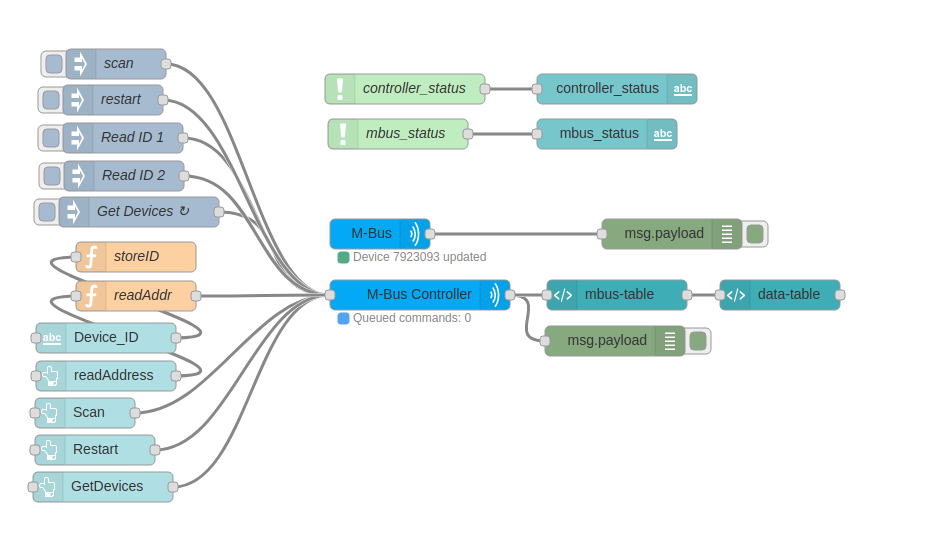
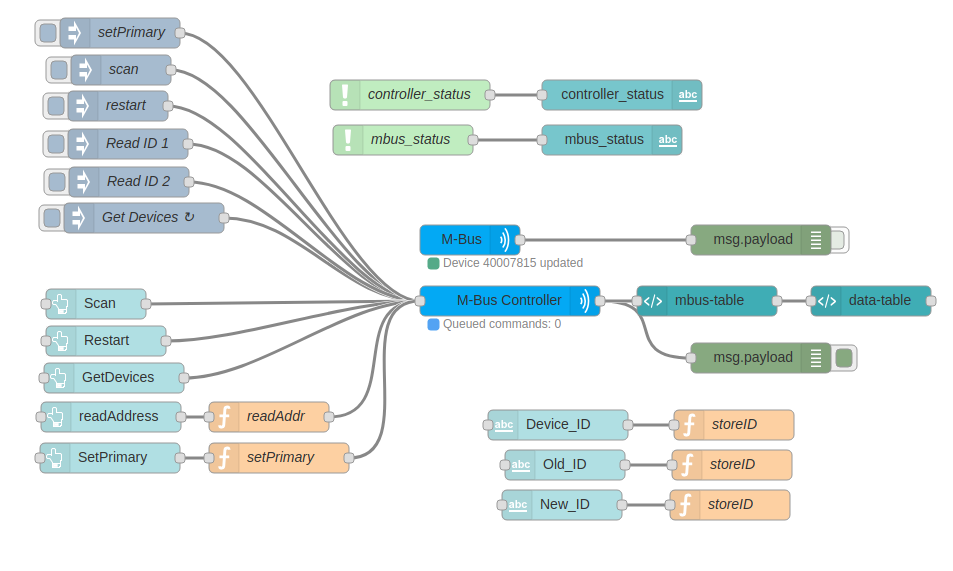
Updated node-mbus to last version. Implemented setPrimary Updated Readme and ready for 1.0.0

diff --git a/mbus-client.js b/mbus-client.js
@@ -8,6 +8,7 @@ module.exports = function (RED) {
     'mbConnect': 'log',
     'mbReconnect': 'debug',
     'mbScan': 'debug',
+    'mbPrimarySet': 'debug',
     'mbScanComplete': 'debug',
     'mbDeviceUpdated': 'debug',
     'mbDevicesLoaded': 'debug',
@@ -92,8 +93,6 @@ module.exports = function (RED) {
 
         if(isValidArray(data)){
           emitEvent('mbDevicesLoaded', {data:data});
-          devices = data;
-          delayFunction(readDevices);
         }else if(scanIfFail){
           delayFunction(scanSecondary);
         }
@@ -111,6 +110,10 @@ module.exports = function (RED) {
       id = id.substr(0,8);
       id = parseInt(id); //remove leading 0
       return id.toString();
+    }
+
+    function isSecondaryID(id){
+      return id.toString().length == 16;
     }
 
     //Delay a function
@@ -216,6 +219,14 @@ module.exports = function (RED) {
 
     function isConnected(){
       return client && client.connect();
+    }
+
+    function initDevices(){
+      if(devices){
+        for (var i = 0; i < devices.length; i++) {
+          addEmptyDevice(devices[i]);
+        }
+      }
     }
 
     //connect the client
@@ -325,12 +336,36 @@ module.exports = function (RED) {
           emitEvent('mbError', {data: err.message, message: 'Error while reading device ' + addr + ': ' + err.message});
 
         }else{ //successfull read
-          data.secondaryID = addr;
+          isSecondaryID(addr) ? data.secondaryID = addr : data.primaryID = addr;
           emitEvent('mbDeviceUpdated', {data:data});
         }
       });
 
     }
+
+    //get device addr data
+    function setPrimary(oldAddr, newAddr, cb){
+
+      if(!canDoOperation()){
+        if(cb) cb(new Error('Connection not open'), null)
+        emitEvent('mbError', {data: 'Connection not open', message: 'Error while setting primary address '+ newAddr +' to ' + oldAddr + ': ' + 'Connection not open'});
+        return;
+      }
+
+      client.setPrimaryId(oldAddr, newAddr, function(err){
+
+        if(cb) cb(err);
+
+        if (err) {
+          emitEvent('mbError', {data: err.message, message: 'Error while setting primary address '+ newAddr +' to ' + oldAddr + ': ' + err.message});
+
+        }else{ //successfull read
+          emitEvent('mbPrimarySet', {data: {old: oldAddr, new:newAddr}});
+        }
+      });
+
+    }
+
 
     //scan secondary IDs
     function scanSecondary(cb){
@@ -394,12 +429,17 @@ module.exports = function (RED) {
         var message = "Executing command: ";
 
         switch (fnName) {
+          case 'setPrimary':
+          message += 'setPrimary Old=' + (op.args ? op.args[0] : 'null') + " New=" + (op.args ? op.args[1] : 'null');
+          break;
           case 'getData':
           message += 'getDevice ID=' + (op.args ? op.args[0] : 'null');
           break;
           case 'scanSecondary':
           message += 'scan'
           break;
+          default:
+          message += "Undefined"
         }
 
         emitEvent('mbCommandExec', {data: message, message: message});
@@ -431,6 +471,7 @@ module.exports = function (RED) {
 
     node.on('mbScanComplete', function(data){
       devices = data;
+      initDevices();
 
       if(node.storeDevices)
         storeDevices();
@@ -438,12 +479,42 @@ module.exports = function (RED) {
       readDevices();
     });
 
+    node.on('mbDevicesLoaded', function(data){
+      devices = data;
+      initDevices();
+      delayFunction(readDevices);
+    });
+
     node.on('mbDeviceUpdated', function(data){
-      var id = data ? data.secondaryID : null;
-      if(id){
-        devicesData[id] = data;
+      if(!data || closed || reconnecting) return;
+
+      var id;
+
+      if(data.secondaryID){
+        id = data.secondaryID;
+        devicesData[id].SlaveInformation = data.SlaveInformation;
+        devicesData[id].DataRecord = data.DataRecord;
         devicesData[id].lastUpdate = new Date();
         devicesData[id].error = 'Ok';
+      }else if(data.primaryID){ //getData has been called with a primary ID
+        //check if device is present
+        var device = null;
+        id= data.primaryID;
+
+        //look for the device
+        for (var d in devicesData) {
+          if(devicesData[d].SlaveInformation.Id == data.SlaveInformation.Id){
+            device = d;
+            break;
+          }
+        }
+
+        if(device){
+          devicesData[device].SlaveInformation = data.SlaveInformation;
+          devicesData[device].DataRecord = data.DataRecord;
+          devicesData[device].primaryID = id;
+        }
+
       }
     });
 

diff --git a/mbus-controller.js b/mbus-controller.js
@@ -70,13 +70,6 @@ module.exports = function (RED) {
               return;
             }
 
-            msg.payload.address = parseInt(msg.payload.address) || 0
-
-            if (!(Number.isInteger(msg.payload.address))) {
-              node.error('Address Not Valid', msg)
-              return
-            }
-
             commandsQueue.push({fn: 'getData', id: msg.payload.address});
             showQueue();
 
@@ -90,6 +83,40 @@ module.exports = function (RED) {
               else{
                 node.send({topic: 'getDevice', payload: data});
                 client.emit('mbCommandDone', 'Device updated ID ' + (cmd ? cmd.id : ''));
+              }
+
+              if(client)
+                client.doNextOperation();
+            }]);
+
+            break;
+            case 'setPrimary':
+
+            if(!msg.payload && (!msg.payload.oldAddr || !msg.payload.newAddr)){
+              node.error('Missing data, set a valid "oldAddr" and "newAddr"', msg)
+              return;
+            }
+
+            msg.payload.newAddr = parseInt(msg.payload.newAddr);
+
+            if (!(Number.isInteger(msg.payload.newAddr)) || msg.payload.newAddr < 0 || msg.payload.newAddr > 250) {
+              node.error('New primary address not valid, must be an integer between 1-250', msg)
+              return
+            }
+
+            commandsQueue.push({fn: 'setPrimary', new: msg.payload.newAddr, old: msg.payload.oldAddr});
+            showQueue();
+
+            client.queueOperation('setPrimary', [msg.payload.oldAddr, msg.payload.newAddr, function(err){
+
+              var cmd = commandsQueue.shift();
+
+              if(err){
+                setStatus('Error while setting new primary ID ' + cmd.new + ' of device ' + (cmd ? cmd.old : ''), 'error');
+              }
+              else{
+                node.send({topic: 'setPrimary', payload: {newAddr:cmd.new, oldAddr:cmd.old}});
+                client.emit('mbCommandDone', 'Setted new primary ID ' + cmd.new + ' to device ' + cmd.old);
               }
 
               if(client)

diff --git a/mbus-controller.html b/mbus-controller.html
@@ -69,7 +69,12 @@
 <ul>
     <li><b>scan</b> - Used to trigger a new scan of M-Bus network (will update <code>mbus_devices.json</code> file if <code>storeDevices</code> option is set to true)
     <li><b>getDevices</b> - Used to get the Object with devices all datas and errors.
-    <li><b>getDevice</b> - Read a specific device ID specified in <code>msg.payload</code>.
+    <li><b>getDevice</b> - Read a specific device ID specified in <code>msg.payload.address</code>.
+    <li><b>setPrimary</b> - Set device Primary ID. <code>msg.payload</code> needs <code>oldAddr</code> and <code>newAddr</code> properties: 
+    <code>`{newAddr: 'theNewAddr', oldAddr: 'theOldAddress'}`</code>.
+    <code>oldAddr</code> can be the primary or the secondary ID of the device.
+    <code>newAddr</code> must be a valid primary ID <code>Int</code> between 0-250.
+
 </ul>
 
 <h3>Outputs</h3>

diff --git a/mbus-out.js b/mbus-out.js
@@ -21,7 +21,9 @@ module.exports = function (RED) {
      'mbScan': onScan,
      'mbScanComplete': onScanComplete,
      'mbDeviceUpdated': onDeviceUpdated,
-     'mbDevicesLoaded': onDevicesLoaded
+     'mbDevicesLoaded': onDevicesLoaded,
+     'mbPrimarySet': onPrimarySet,
+
    };
 
 
@@ -49,6 +51,11 @@ module.exports = function (RED) {
     function onDeviceUpdated(device) {
       setStatus("Device " + device.SlaveInformation.Id + " updated", 'success')
       node.send({topic: "mbDeviceUpdated", payload: device});
+    }
+
+    function onPrimarySet(data) {
+      setStatus("Device " + data.old + " successfully set to primary ID " + data.new, 'success')
+      node.send({topic: "mbPrimarySet", payload: data});
     }
 
     function onDevicesLoaded(devices) {

diff --git a/README.md b/README.md
@@ -139,6 +139,7 @@ Other **mbus-client** events are:
 * *mbError*: when an error occurs (with error message as argument)
 * *mbRestarted*: when the client is restarted
 * *mbScan*: when the scan starts
+* *mbPrimarySet*: when a device has successfully set a new primary ID
 
 
 ### mbus-out
@@ -154,6 +155,7 @@ This node is used to send commands to an M-Bus client. `msg.topic` must contains
   * **devices**: `Object` where keys are devices secondary IDs and values are devices data.
   * **errors**: `Object` where keys are devices secondary IDs and values are `true` if devices has an error
 * *getDevice*: Input `msg.payload.address` must contain the address (primary or secondary) of the device to read. Output will contain requested device datas.
+* *setPrimary*: Input: `msg.payload.oldAddr` (primary or secondary ID of the device) and `msg.payload.newAddr`  (the new primary ID to set 0-250). Output will contain the same payload as input if success: `{newAddr: msg.payload.newAddr, oldAddr:msg.payload.oldAddr}`.
 * *restart*: Restarts the client connection.
 
 **IMPORTANT NOTE**
@@ -177,7 +179,7 @@ Click on a m-bus device row and his data will be displayed in the Data table. De
 ### Flow data
 
 ```json
-[{"id":"91f58b94.449f68","type":"tab","label":"M-Bus","disabled":false,"info":""},{"id":"dd877b81.954e48","type":"mbus-out","z":"91f58b94.449f68","name":"","client":"ae5a755.a1da088","x":386,"y":242,"wires":[["3baf7067.f14cb"]]},{"id":"3baf7067.f14cb","type":"debug","z":"91f58b94.449f68","name":"","active":true,"tosidebar":true,"console":false,"tostatus":false,"complete":"false","x":677,"y":242,"wires":[]},{"id":"c052251a.5894f8","type":"mbus-controller","z":"91f58b94.449f68","name":"","client":"ae5a755.a1da088","x":426,"y":303,"wires":[["b83f6e57.3e9b3","4628e1e6.86c15"]]},{"id":"6783da7a.66a964","type":"inject","z":"91f58b94.449f68","name":"scan","topic":"scan","payload":"","payloadType":"str","repeat":"","crontab":"","once":false,"onceDelay":0.1,"x":122,"y":72,"wires":[["c052251a.5894f8"]]},{"id":"b83f6e57.3e9b3","type":"debug","z":"91f58b94.449f68","name":"","active":true,"tosidebar":true,"console":false,"tostatus":false,"complete":"false","x":621,"y":349,"wires":[]},{"id":"36145d27.8fa442","type":"inject","z":"91f58b94.449f68","name":"Read ID 1","topic":"getDevice","payload":"{\"address\": 1}","payloadType":"json","repeat":"","crontab":"","once":false,"onceDelay":0.1,"x":129,"y":146,"wires":[["c052251a.5894f8"]]},{"id":"161119a5.ed03b6","type":"inject","z":"91f58b94.449f68","name":"Get Devices","topic":"getDevices","payload":"","payloadType":"str","repeat":"10","crontab":"","once":true,"onceDelay":0.1,"x":145,"y":220,"wires":[["c052251a.5894f8"]]},{"id":"4628e1e6.86c15","type":"ui_template","z":"91f58b94.449f68","group":"33ef59b3.4b5596","name":"mbus-table","order":0,"width":"14","height":"10","format":"<table>\n  <tr>\n    <th>ID</th>\n    <th>Info</th>\n    <th>Data</th>\n    <th>Last Update</th>\n    <th>Status</th>\n  </tr>\n  <tr style=\"cursor:pointer;\" ng-click=\"showData(device)\" ng-repeat=\"(id, device) in devices\">\n    <td>{{ device.SlaveInformation.Id }}</td>\n    <td ng-bind-html=\"getInfo(device)\"></td>\n    <td>{{ device.DataRecord.length }}</td>\n    <td>{{ device.lastUpdate }}</td>\n    <td>\n        <div class=\"online\" ng-style=\"{background: isOnline(id) ? '#4CAF50' : '#f44336'}\">\n            <md-tooltip md-direction=\"bottom\">{{ device.error }}</md-tooltip>\n        </div>\n    </td>\n  </tr>\n</table>\n\n<style>\ntable {\n    border-collapse: collapse;\n    width: 100%;\n}\n\nth, td{\n    text-align: left;\n    padding: 8px;\n    background-color: #f2f2f2;\n    color: black;\n}\n\nth {\n    background-color: #4CAF50;\n    color: white;\n}\n\n.online {\n\tbackground:#ff3333;\n\twidth:20px;\n\theight:20px;\n\tmargin:0 auto;\n\t-webkit-border-radius:50%;\n\t-moz-border-radius:50%;\n\tborder-radius:50%;\n}\n</style>\n\n<script>\n\n\n(function(scope) {\n    \n    scope.send({topic: 'getDevices'});\n    scope.devices = [];\n    scope.errors = [];\n    \n    scope.isOnline = function(ID){\n        return !(scope.errors[ID] === true);\n    }\n    \n    scope.showData = function(device){\n        scope.send({topic: 'deviceData', payload: device});\n    }\n    \n    scope.getInfo = function(device){\n        var text = '';\n        var info = device.SlaveInformation;\n        \n        for(key in info){\n            text += `<p><b>${key}</b>: ${info[key]}</p>`;\n        }\n        \n        return text;\n    }\n\n    scope.$watch('msg', function(data) {\n        if(data && data.topic){\n            switch(data.topic){\n                case \"getDevices\":\n                    if(data.payload && data.payload.devices)\n                        scope.devices = data.payload.devices;\n                        \n                    if(data.payload && data.payload.errors)\n                        scope.errors = data.payload.errors;\n                        \n                break;\n            }\n        }\n    });\n    \n})(scope);\n\n</script>\n","storeOutMessages":false,"fwdInMessages":false,"templateScope":"local","x":623,"y":303,"wires":[["daf4f19d.2953f"]]},{"id":"1bbe4b3c.e76775","type":"inject","z":"91f58b94.449f68","name":"restart","topic":"restart","payload":"","payloadType":"num","repeat":"","crontab":"","once":false,"onceDelay":0.1,"x":119,"y":108,"wires":[["c052251a.5894f8"]]},{"id":"daf4f19d.2953f","type":"ui_template","z":"91f58b94.449f68","group":"f84bb8e1.c42128","name":"data-table","order":0,"width":"14","height":"10","format":"<p><b>Device ID:</b> {{ID}} </p>\n\n<br>\n<br>\n\n<table>\n  <tr>\n    <th>ID</th>\n    <th>Function</th>\n    <th>Unit</th>\n    <th>Value</th>\n    <th>Timestamp</th>\n  </tr>\n  <tr ng-repeat=\"(key, data) in deviceData\">\n    <td>{{ data.id }}</td>\n    <td>{{ data.Function }}</td>\n    <td>{{ data.Unit }}</td>\n    <td>{{ data.Value }}</td>\n    <td>{{ data.Timestamp }}</td>\n  </tr>\n</table>\n\n<style>\ntable {\n    border-collapse: collapse;\n    width: 100%;\n}\n\nth, td{\n    text-align: left;\n    padding: 8px;\n    background-color: #f2f2f2;\n    color: black;\n}\n\nth {\n    background-color: #4CAF50;\n    color: white;\n}\n\n.online {\n\tbackground:#ff3333;\n\twidth:20px;\n\theight:20px;\n\tmargin:0 auto;\n\t-webkit-border-radius:50%;\n\t-moz-border-radius:50%;\n\tborder-radius:50%;\n}\n</style>\n\n<script>\n\n\n(function(scope) {\n    \n    scope.deviceData = [];\n    scope.ID = '';\n\n    scope.$watch('msg', function(data) {\n        if(data && data.topic){\n            switch(data.topic){\n                case \"deviceData\":\n                    if(data.payload){\n                        scope.deviceData = data.payload.DataRecord;\n                        scope.ID = data.payload.SlaveInformation.Id;\n                    }\n                break;\n            }\n        }\n    });\n    \n})(scope);\n\n</script>\n","storeOutMessages":false,"fwdInMessages":false,"templateScope":"local","x":786,"y":303,"wires":[[]]},{"id":"54eb2609.265918","type":"inject","z":"91f58b94.449f68","name":"Read ID 2","topic":"getDevice","payload":"{\"address\": 2}","payloadType":"json","repeat":"","crontab":"","once":false,"onceDelay":0.1,"x":130,"y":184,"wires":[["c052251a.5894f8"]]},{"id":"9a73efcf.a7232","type":"ui_button","z":"91f58b94.449f68","name":"Scan","group":"c89330ce.f7db","order":3,"width":"2","height":"1","passthru":false,"label":"Scan","color":"","bgcolor":"","icon":"location_searching","payload":"","payloadType":"str","topic":"scan","x":91,"y":421,"wires":[["c052251a.5894f8"]]},{"id":"97ffd355.b9e33","type":"ui_button","z":"91f58b94.449f68","name":"Restart","group":"c89330ce.f7db","order":4,"width":"3","height":"1","passthru":false,"label":"Restart","color":"","bgcolor":"","icon":"refresh","payload":"","payloadType":"str","topic":"restart","x":101,"y":458,"wires":[["c052251a.5894f8"]]},{"id":"15e49644.8e13ba","type":"ui_button","z":"91f58b94.449f68","name":"GetDevices","group":"c89330ce.f7db","order":5,"width":"3","height":"1","passthru":false,"label":"Update Devices","color":"","bgcolor":"","icon":"refresh","payload":"","payloadType":"str","topic":"getDevices","x":109,"y":495,"wires":[["c052251a.5894f8"]]},{"id":"d022c2f6.908e5","type":"ui_button","z":"91f58b94.449f68","name":"readAddress","group":"c89330ce.f7db","order":2,"width":"3","height":"1","passthru":false,"label":"Read Device","color":"","bgcolor":"","icon":"","payload":"deviceID","payloadType":"flow","topic":"getDevice","x":112,"y":384,"wires":[["10d02659.573e3a"]]},{"id":"c4931876.835258","type":"ui_text_input","z":"91f58b94.449f68","name":"Device_ID","label":"ID: ","group":"c89330ce.f7db","order":1,"width":"3","height":"1","passthru":true,"mode":"text","delay":300,"topic":"","x":112,"y":346,"wires":[["548897df.015fb8"]]},{"id":"548897df.015fb8","type":"function","z":"91f58b94.449f68","name":"storeID","func":"\nflow.set('deviceID', parseInt(msg.payload));\n\nreturn msg;","outputs":0,"noerr":0,"x":142,"y":265,"wires":[]},{"id":"10d02659.573e3a","type":"function","z":"91f58b94.449f68","name":"readAddr","func":"var addr = {address: msg.payload}\n\nmsg.payload = addr;\n\nreturn msg;","outputs":1,"noerr":0,"x":142,"y":304,"wires":[["c052251a.5894f8"]]},{"id":"ae06bcd6.ce3df","type":"status","z":"91f58b94.449f68","name":"controller_status","scope":["c052251a.5894f8"],"x":411,"y":97,"wires":[["1b23d795.c83a58"]]},{"id":"eb9c6a53.906ae8","type":"status","z":"91f58b94.449f68","name":"mbus_status","scope":["dd877b81.954e48"],"x":404,"y":142,"wires":[["ebc6bd18.72c2e"]]},{"id":"1b23d795.c83a58","type":"ui_text","z":"91f58b94.449f68","group":"b6df82c1.2728a","order":0,"width":0,"height":0,"name":"controller_status","label":"Controller","format":"{{msg.status.text}}","layout":"row-spread","x":623,"y":97,"wires":[]},{"id":"ebc6bd18.72c2e","type":"ui_text","z":"91f58b94.449f68","group":"b6df82c1.2728a","order":0,"width":0,"height":0,"name":"mbus_status","label":"M-Bus","format":"{{msg.status.text}}","layout":"row-spread","x":613,"y":142,"wires":[]},{"id":"ae5a755.a1da088","type":"mbus-client","z":"","name":"test","clienttype":"serial","tcpHost":"127.0.0.1","tcpPort":"500","serialPort":"/dev/ttyUSB0","serialBaudrate":"2400","reconnectTimeout":"5000","storeDevices":true,"disableLogs":false},{"id":"33ef59b3.4b5596","type":"ui_group","z":"","name":"M-Bus Devices","tab":"1e8e0541.4fc61b","order":4,"disp":true,"width":"14","collapse":false},{"id":"f84bb8e1.c42128","type":"ui_group","z":"","name":"Data","tab":"1e8e0541.4fc61b","order":3,"disp":true,"width":"14","collapse":false},{"id":"c89330ce.f7db","type":"ui_group","z":"","name":"Commands","tab":"1e8e0541.4fc61b","order":2,"disp":true,"width":"14","collapse":false},{"id":"b6df82c1.2728a","type":"ui_group","z":"","name":"Status","tab":"1e8e0541.4fc61b","order":1,"disp":true,"width":"14","collapse":false},{"id":"1e8e0541.4fc61b","type":"ui_tab","z":"","name":"M-Bus","icon":"plug","order":1}]
+[{"id":"91f58b94.449f68","type":"tab","label":"M-Bus","disabled":false,"info":""},{"id":"dd877b81.954e48","type":"mbus-out","z":"91f58b94.449f68","name":"","client":"ae5a755.a1da088","x":471,"y":242,"wires":[["3baf7067.f14cb"]]},{"id":"3baf7067.f14cb","type":"debug","z":"91f58b94.449f68","name":"","active":false,"tosidebar":true,"console":false,"tostatus":false,"complete":"false","x":762,"y":242,"wires":[]},{"id":"c052251a.5894f8","type":"mbus-controller","z":"91f58b94.449f68","name":"","client":"ae5a755.a1da088","x":511,"y":303,"wires":[["b83f6e57.3e9b3","4628e1e6.86c15"]]},{"id":"6783da7a.66a964","type":"inject","z":"91f58b94.449f68","name":"scan","topic":"scan","payload":"","payloadType":"str","repeat":"","crontab":"","once":false,"onceDelay":0.1,"x":122,"y":72,"wires":[["c052251a.5894f8"]]},{"id":"b83f6e57.3e9b3","type":"debug","z":"91f58b94.449f68","name":"","active":true,"tosidebar":true,"console":false,"tostatus":false,"complete":"false","x":762,"y":360,"wires":[]},{"id":"36145d27.8fa442","type":"inject","z":"91f58b94.449f68","name":"Read ID 1","topic":"getDevice","payload":"{\"address\": 1}","payloadType":"json","repeat":"","crontab":"","once":false,"onceDelay":0.1,"x":129,"y":146,"wires":[["c052251a.5894f8"]]},{"id":"161119a5.ed03b6","type":"inject","z":"91f58b94.449f68","name":"Get Devices","topic":"getDevices","payload":"","payloadType":"str","repeat":"10","crontab":"","once":true,"onceDelay":0.1,"x":145,"y":220,"wires":[["c052251a.5894f8"]]},{"id":"4628e1e6.86c15","type":"ui_template","z":"91f58b94.449f68","group":"33ef59b3.4b5596","name":"mbus-table","order":0,"width":"14","height":"10","format":"<table>\n  <tr>\n    <th>ID</th>\n    <th>Primary ID</th>\n    <th>Info</th>\n    <th>Data</th>\n    <th>Last Update</th>\n    <th>Status</th>\n  </tr>\n  <tr style=\"cursor:pointer;\" ng-click=\"showData(device)\" ng-repeat=\"(id, device) in devices\">\n    <td>{{ device.SlaveInformation.Id }}</td>\n    <td>{{ device.primaryID }}</td>\n    <td ng-bind-html=\"getInfo(device)\"></td>\n    <td>{{ device.DataRecord.length }}</td>\n    <td>{{ device.lastUpdate }}</td>\n    <td>\n        <div class=\"online\" ng-style=\"{background: isOnline(id) ? '#4CAF50' : '#f44336'}\">\n            <md-tooltip md-direction=\"bottom\">{{ device.error ? device.error : 'Not updated yet' }}</md-tooltip>\n        </div>\n    </td>\n  </tr>\n</table>\n\n<style>\ntable {\n    border-collapse: collapse;\n    width: 100%;\n}\n\nth, td{\n    text-align: left;\n    padding: 8px;\n    background-color: #f2f2f2;\n    color: black;\n}\n\nth {\n    background-color: #4CAF50;\n    color: white;\n}\n\n.online {\n\tbackground:#ff3333;\n\twidth:20px;\n\theight:20px;\n\tmargin:0 auto;\n\t-webkit-border-radius:50%;\n\t-moz-border-radius:50%;\n\tborder-radius:50%;\n}\n</style>\n\n<script>\n\n\n(function(scope) {\n    \n    scope.send({topic: 'getDevices'});\n    scope.devices = [];\n    scope.errors = [];\n    \n    scope.isOnline = function(ID){\n        return !(scope.errors[ID] === true);\n    }\n    \n    scope.showData = function(device){\n        scope.send({topic: 'deviceData', payload: device});\n    }\n    \n    scope.getInfo = function(device){\n        var text = '';\n        var info = device.SlaveInformation;\n        \n        for(key in info){\n            text += `<p><b>${key}</b>: ${info[key]}</p>`;\n        }\n        \n        return text;\n    }\n\n    scope.$watch('msg', function(data) {\n        if(data && data.topic){\n            switch(data.topic){\n                case \"getDevices\":\n                    if(data.payload && data.payload.devices)\n                        scope.devices = data.payload.devices;\n                        \n                    if(data.payload && data.payload.errors)\n                        scope.errors = data.payload.errors;\n                        \n                break;\n            }\n        }\n    });\n    \n})(scope);\n\n</script>\n","storeOutMessages":false,"fwdInMessages":false,"templateScope":"local","x":708,"y":303,"wires":[["daf4f19d.2953f"]]},{"id":"1bbe4b3c.e76775","type":"inject","z":"91f58b94.449f68","name":"restart","topic":"restart","payload":"","payloadType":"num","repeat":"","crontab":"","once":false,"onceDelay":0.1,"x":119,"y":108,"wires":[["c052251a.5894f8"]]},{"id":"daf4f19d.2953f","type":"ui_template","z":"91f58b94.449f68","group":"f84bb8e1.c42128","name":"data-table","order":0,"width":"14","height":"10","format":"<p><b>Device ID:</b> {{ID}} </p>\n\n<br>\n<br>\n\n<table>\n  <tr>\n    <th>ID</th>\n    <th>Function</th>\n    <th>Unit</th>\n    <th>Value</th>\n    <th>Timestamp</th>\n  </tr>\n  <tr ng-repeat=\"(key, data) in deviceData\">\n    <td>{{ data.id }}</td>\n    <td>{{ data.Function }}</td>\n    <td>{{ data.Unit }}</td>\n    <td>{{ data.Value }}</td>\n    <td>{{ data.Timestamp }}</td>\n  </tr>\n</table>\n\n<style>\ntable {\n    border-collapse: collapse;\n    width: 100%;\n}\n\nth, td{\n    text-align: left;\n    padding: 8px;\n    background-color: #f2f2f2;\n    color: black;\n}\n\nth {\n    background-color: #4CAF50;\n    color: white;\n}\n\n.online {\n\tbackground:#ff3333;\n\twidth:20px;\n\theight:20px;\n\tmargin:0 auto;\n\t-webkit-border-radius:50%;\n\t-moz-border-radius:50%;\n\tborder-radius:50%;\n}\n</style>\n\n<script>\n\n\n(function(scope) {\n    \n    scope.deviceData = [];\n    scope.ID = '';\n\n    scope.$watch('msg', function(data) {\n        if(data && data.topic){\n            switch(data.topic){\n                case \"deviceData\":\n                    if(data.payload){\n                        scope.deviceData = data.payload.DataRecord;\n                        scope.ID = data.payload.SlaveInformation.Id;\n                    }\n                break;\n            }\n        }\n    });\n    \n})(scope);\n\n</script>\n","storeOutMessages":false,"fwdInMessages":false,"templateScope":"local","x":872,"y":303,"wires":[[]]},{"id":"54eb2609.265918","type":"inject","z":"91f58b94.449f68","name":"Read ID 2","topic":"getDevice","payload":"{\"address\": 2}","payloadType":"json","repeat":"","crontab":"","once":false,"onceDelay":0.1,"x":130,"y":184,"wires":[["c052251a.5894f8"]]},{"id":"9a73efcf.a7232","type":"ui_button","z":"91f58b94.449f68","name":"Scan","group":"c89330ce.f7db","order":3,"width":"2","height":"1","passthru":false,"label":"Scan","color":"","bgcolor":"","icon":"location_searching","payload":"","payloadType":"str","topic":"scan","x":97,"y":306,"wires":[["c052251a.5894f8"]]},{"id":"97ffd355.b9e33","type":"ui_button","z":"91f58b94.449f68","name":"Restart","group":"c89330ce.f7db","order":4,"width":"3","height":"1","passthru":false,"label":"Restart","color":"","bgcolor":"","icon":"refresh","payload":"","payloadType":"str","topic":"restart","x":107,"y":343,"wires":[["c052251a.5894f8"]]},{"id":"15e49644.8e13ba","type":"ui_button","z":"91f58b94.449f68","name":"GetDevices","group":"c89330ce.f7db","order":5,"width":"3","height":"1","passthru":false,"label":"Update Devices","color":"","bgcolor":"","icon":"refresh","payload":"","payloadType":"str","topic":"getDevices","x":115,"y":380,"wires":[["c052251a.5894f8"]]},{"id":"d022c2f6.908e5","type":"ui_button","z":"91f58b94.449f68","name":"readAddress","group":"c89330ce.f7db","order":2,"width":"3","height":"1","passthru":false,"label":"Read Device","color":"","bgcolor":"","icon":"","payload":"deviceID","payloadType":"flow","topic":"getDevice","x":112,"y":419,"wires":[["10d02659.573e3a"]]},{"id":"c4931876.835258","type":"ui_text_input","z":"91f58b94.449f68","name":"Device_ID","label":"ID: ","group":"c89330ce.f7db","order":1,"width":"3","height":"1","passthru":true,"mode":"text","delay":300,"topic":"","x":559,"y":427,"wires":[["548897df.015fb8"]]},{"id":"548897df.015fb8","type":"function","z":"91f58b94.449f68","name":"storeID","func":"\nflow.set('deviceID', parseInt(msg.payload));\n\nreturn msg;","outputs":0,"noerr":0,"x":735,"y":427,"wires":[]},{"id":"10d02659.573e3a","type":"function","z":"91f58b94.449f68","name":"readAddr","func":"var data = {address: msg.payload}\n\nmsg.payload = data;\n\nreturn msg;","outputs":1,"noerr":0,"x":270,"y":419,"wires":[["c052251a.5894f8"]]},{"id":"ae06bcd6.ce3df","type":"status","z":"91f58b94.449f68","name":"controller_status","scope":["c052251a.5894f8"],"x":411,"y":97,"wires":[["1b23d795.c83a58"]]},{"id":"eb9c6a53.906ae8","type":"status","z":"91f58b94.449f68","name":"mbus_status","scope":["dd877b81.954e48"],"x":404,"y":142,"wires":[["ebc6bd18.72c2e"]]},{"id":"1b23d795.c83a58","type":"ui_text","z":"91f58b94.449f68","group":"b6df82c1.2728a","order":0,"width":0,"height":0,"name":"controller_status","label":"Controller","format":"{{msg.status.text}}","layout":"row-spread","x":623,"y":97,"wires":[]},{"id":"ebc6bd18.72c2e","type":"ui_text","z":"91f58b94.449f68","group":"b6df82c1.2728a","order":0,"width":0,"height":0,"name":"mbus_status","label":"M-Bus","format":"{{msg.status.text}}","layout":"row-spread","x":613,"y":142,"wires":[]},{"id":"72550207.0eb80c","type":"inject","z":"91f58b94.449f68","name":"setPrimary","topic":"setPrimary","payload":"{\"newAddr\":3,\"oldAddr\":2}","payloadType":"json","repeat":"","crontab":"","once":false,"onceDelay":0.1,"x":121,"y":35,"wires":[["c052251a.5894f8"]]},{"id":"38b8c9fb.0362e6","type":"ui_text_input","z":"91f58b94.449f68","name":"Old_ID","label":"Old ID","group":"c89330ce.f7db","order":6,"width":"3","height":"1","passthru":true,"mode":"text","delay":300,"topic":"","x":566,"y":467,"wires":[["dc799523.083eb8"]]},{"id":"dc799523.083eb8","type":"function","z":"91f58b94.449f68","name":"storeID","func":"\nflow.set('oldID', parseInt(msg.payload));\n\nreturn msg;","outputs":0,"noerr":0,"x":733,"y":467,"wires":[]},{"id":"9421e413.1acb58","type":"ui_text_input","z":"91f58b94.449f68","name":"New_ID","label":"New ID","group":"c89330ce.f7db","order":7,"width":"3","height":"1","passthru":true,"mode":"text","delay":300,"topic":"","x":563,"y":507,"wires":[["cff49c1f.a8dc6"]]},{"id":"cff49c1f.a8dc6","type":"function","z":"91f58b94.449f68","name":"storeID","func":"\nflow.set('newID', parseInt(msg.payload));\n\nreturn msg;","outputs":0,"noerr":0,"x":731,"y":507,"wires":[]},{"id":"22376168.81726e","type":"ui_button","z":"91f58b94.449f68","name":"SetPrimary","group":"c89330ce.f7db","order":8,"width":"3","height":"1","passthru":false,"label":"Set Primary ID","color":"","bgcolor":"","icon":"","payload":"","payloadType":"str","topic":"setPrimary","x":111,"y":460,"wires":[["1ebe108.19438f"]]},{"id":"1ebe108.19438f","type":"function","z":"91f58b94.449f68","name":"setPrimary","func":"var data = {\n    oldAddr: flow.get('oldID'), \n    newAddr:flow.get('newID')\n    }\n\nmsg.payload = data;\n\nreturn msg;","outputs":1,"noerr":0,"x":280,"y":460,"wires":[["c052251a.5894f8"]]},{"id":"ae5a755.a1da088","type":"mbus-client","z":"","name":"test","clienttype":"serial","tcpHost":"127.0.0.1","tcpPort":"500","serialPort":"/dev/ttyUSB0","serialBaudrate":"2400","reconnectTimeout":"5000","storeDevices":true,"disableLogs":false},{"id":"33ef59b3.4b5596","type":"ui_group","z":"","name":"M-Bus Devices","tab":"1e8e0541.4fc61b","order":3,"disp":true,"width":"14","collapse":false},{"id":"f84bb8e1.c42128","type":"ui_group","z":"","name":"Data","tab":"1e8e0541.4fc61b","order":4,"disp":true,"width":"14","collapse":false},{"id":"c89330ce.f7db","type":"ui_group","z":"","name":"Commands","tab":"1e8e0541.4fc61b","order":2,"disp":true,"width":"14","collapse":false},{"id":"b6df82c1.2728a","type":"ui_group","z":"","name":"Status","tab":"1e8e0541.4fc61b","order":1,"disp":true,"width":"14","collapse":false},{"id":"1e8e0541.4fc61b","type":"ui_tab","z":"","name":"M-Bus","icon":"plug","order":1}]
 ```
 
 # Authors
